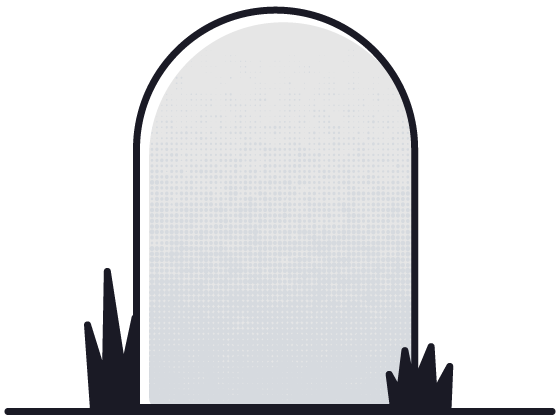
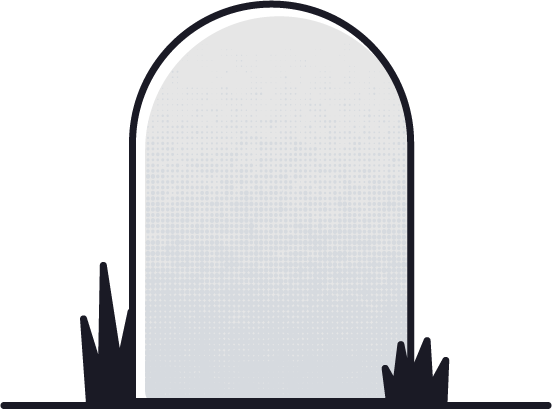
Edit/share flow like wireframes & styled

Changed region(s): [[0.0, 0.0, 1.0, 1.0]]

diff --git a/app/assets/stylesheets/application.scss b/app/assets/stylesheets/application.scss
@@ -28,6 +28,16 @@ nav {
     }
 }
 
+.landing-tombstone-container {
+    @media (min-width: map-get($grid-breakpoints, md)) {
+        margin-bottom: 3rem;
+    }
+}
+
+.landing-form {
+    margin-bottom: 2rem;
+}
+
 .tombstone {
     text-align: center;
     background-repeat: no-repeat;
@@ -35,11 +45,10 @@ nav {
     background-position: top center;
     color: $darkestblue;
     @media (min-width: map-get($grid-breakpoints, md)) {
-        height: 25rem;
+        height: 24rem;
         width: 33rem;
-        margin-bottom: 3rem;
     }
-    height: 18rem;
+    height: 17rem;
     min-width: 23rem;
     margin: 0;
     .epitaph-container {
@@ -67,6 +76,12 @@ nav {
     background-position: bottom;
     background-repeat: repeat-x;
     min-height: 320px;
+}
+
+.fade-darker-short {
+    background-image: image-url('Dot_Gradient_Blue');
+    background-position: 0 calc(100% + 150px);
+    background-repeat: repeat-x;
 }
 
 .fade-darkest {
@@ -105,13 +120,15 @@ form.themed-form {
             max-height: 10rem;
             width: 100%;
             margin: auto;
-            font-family: $font-family-serif;
         }
         label {
             border: none;
+            margin-left: 0;
+            font-size: .8rem;
         }
         .form-control {
             color: $darkestblue;
+            font-family: $font-family-serif;
             text-align: center;
             &::placeholder {
                 color: $darkblue;
@@ -140,19 +157,20 @@ form.themed-form {
         padding-left: 0;
         margin-left: 15px;
     }
-    .btn {
-        border-radius: 0;
-        color: $white;
-        background-color: $red;
-        font-family: $font-family-serif;
-        text-transform: uppercase;
-        padding: 1rem 3rem;
-        letter-spacing: 0.1rem;
-        box-shadow: 4px 4px $darkred;
-        i {
-            vertical-align: middle;
-            font-size: 1.5rem;
-        }
+}
+
+.btn {
+    border-radius: 0;
+    color: $white;
+    background-color: $red;
+    font-family: $font-family-serif;
+    text-transform: uppercase;
+    padding: 1rem 3rem;
+    letter-spacing: 0.1rem;
+    box-shadow: 4px 4px $darkred;
+    i {
+        vertical-align: middle;
+        font-size: 1.5rem;
     }
 }
 
@@ -227,4 +245,12 @@ form.themed-form {
 .new-epitaph-save {
     padding-top: 1rem;
     margin-bottom: 1rem;
+}
+
+.show-epitaph-buttons {
+    padding-top: 2rem;
+    > div {
+        text-align: center;
+        margin-bottom: 1rem;
+    }
 }

diff --git a/app/controllers/epitaphs_controller.rb b/app/controllers/epitaphs_controller.rb
@@ -38,10 +38,31 @@ class EpitaphsController < ApplicationController
     end
   end
 
-  def share
+  def show
     u = User.where(slug: params[:id].to_s).first!
     @epitaph = u && u.epitaph
     raise ActiveRecord::RecordNotFound unless @epitaph
+  end
+
+  def share
+      show
+  end
+
+  def edit
+      authenticate_user!
+      @epitaph = current_user.epitaph
+      if @epitaph.nil?
+          redirect_to :root
+          return
+      end
+  end
+
+  def update
+      authenticate_user!
+      @epitaph = current_user.epitaph
+      raise ActiveRecord::RecordNotFound unless @epitaph
+      @epitaph.update!(epitaph_params)
+      redirect_to epitaph_url(current_user)
   end
 
   # user will end up here after clicking "save" and going through login redirect dance
@@ -59,10 +80,10 @@ class EpitaphsController < ApplicationController
       @epitaph.name = e[:name]
       @epitaph.text = e[:text]
       @epitaph.save!
+      logger.debug "Final epitaph: #{@epitaph.inspect}"
     end
-    logger.debug "Final epitaph: #{@epitaph.inspect}"
 
-    redirect_to share_epitaph_path(current_user)
+    redirect_to epitaph_path(current_user)
   end
 
 

diff --git a/config/routes.rb b/config/routes.rb
@@ -1,9 +1,8 @@
 Rails.application.routes.draw do
-  resources :epitaphs do
+  resources :epitaphs, only: [:new, :create, :update, :index, :show, :edit] do
     post 'write', on: :new
     get 'share', on: :member
   end
-  get 'home/index'
 
   devise_for :users, :controllers => { :omniauth_callbacks => "users/omniauth_callbacks" }
   devise_scope :user do
